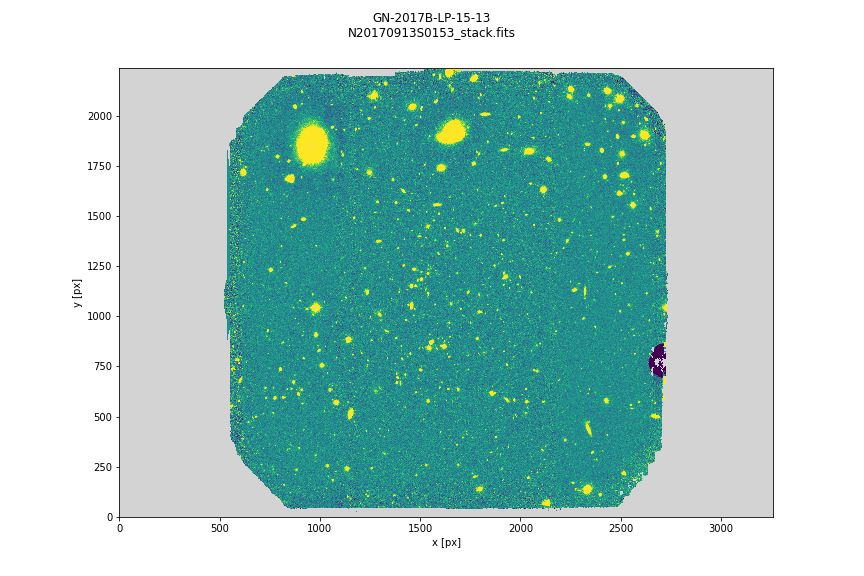
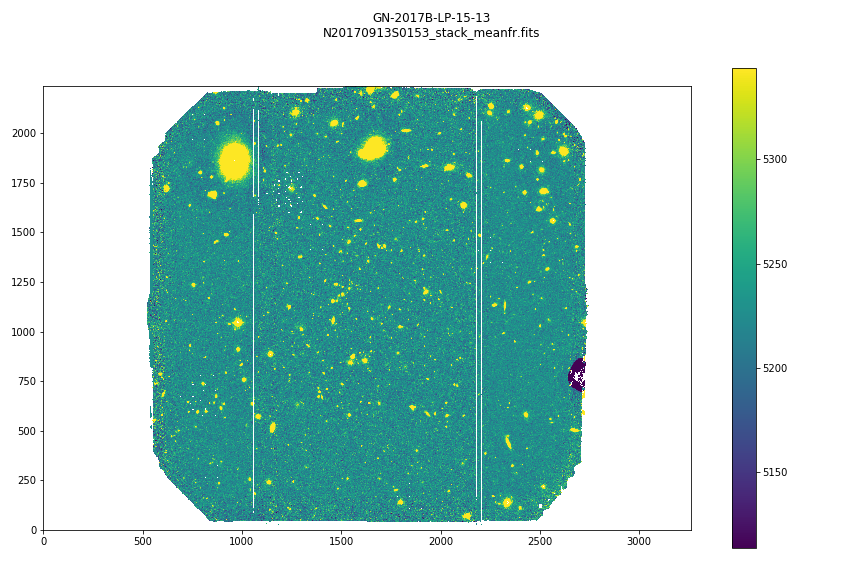
Update images and add one for IRAF

diff --git a/geminidr/doc/tutorials/GMOSImg-vs-IRAF/index.rst b/geminidr/doc/tutorials/GMOSImg-vs-IRAF/index.rst
@@ -233,8 +233,7 @@ Below are one of the raw images and the final stack:
 .. figure:: _static/img/N20170913S0153_stack.png
    :align: center
 
-   Final stacked image. The light-gray area represents the
-   masked pixels.
+   Final stacked image.
 
 Compare with IRAF
 =================
@@ -280,6 +279,11 @@ in the objects. For the purpose of this comparison, this scaling was disabled
 
     imcoadd @mfrgsci.lis fwhm=4 threshold=100 fl_scale- fl_overwrite+
 
+
+.. figure:: _static/img/mfrgN20170913S0153_add_medfr_noscale.png
+   :align: center
+
+   IRAF stacked image.
 
 .. _imcoadd: http://www.gemini.edu/sciops/data/IRAFdoc/imcoadd.html
 
